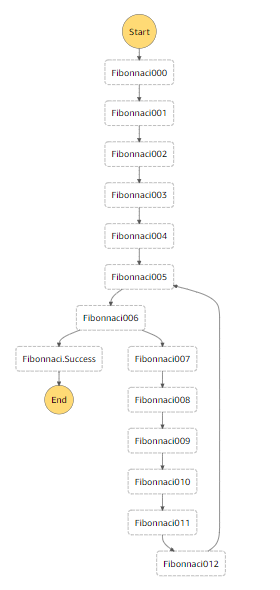
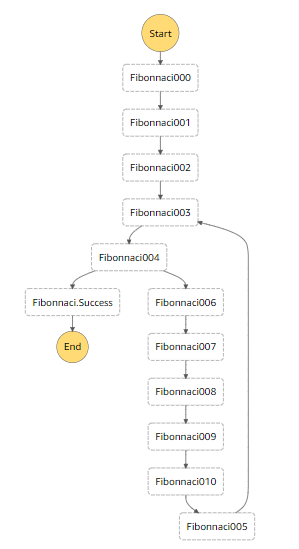
updated docs

diff --git a/README.md b/README.md
@@ -1,12 +1,12 @@
 Stepper
 ====
 
-Stepper is to Step Functions = High level language is to Assembly.
+**Stepper** is to *Step Functions* as **High level language** is to *Assembly*.
  
 Stepper allows you to write AWS Step Functions using modern programming constructs such as `if else` branching, `for` 
 and `while` loops, `try catch` for error handling and natural expressions such as `a = arr.length + 1`. 
 To illustrate, let us create a step function that generates the first 10 Fibonnaci numbers and stores them into an SQS 
-queue. The first two values of the series are hardcoded and the rest of the series is then computed. 
+queue.  
 
 ```Javascript
 
@@ -14,40 +14,26 @@ queue. The first two values of the series are hardcoded and the rest of the seri
 @TimeoutSeconds(120)
 @Version("1.0")
 stepper Fibonnaci {
-    // first two fibonnaci are static
-    task {
-        "Resource": "arn:aws:states:::sqs:sendMessage",
-        "Parameters": {
-            "MessageBody": "0",
-            "QueueUrl": "https://sqs.us-east-1.amazonaws.com/1570xxx/fibo"
-        }
-    }
-    task {
-        "Resource": "arn:aws:states:::sqs:sendMessage",
-        "Parameters": {
-            "MessageBody": "1",
-            "QueueUrl": "https://sqs.us-east-1.amazonaws.com/1570xxx/fibo"
-        }
-    }
-
-    previous = 0;
-    current = 1;
-    count = 2;
-    while (count < 10) {
-        fib = previous + current;
-        previous = current;
-        current = fib;
-        entry = fib + "";
-        // write to queue
-        sqs = task {
+	// first two fibonnaci are static
+	
+	previous = 1;
+	fib = 0;
+	
+	for (c = 1 to 10) {
+		// queue message must be a string
+		body = fib + "";
+		// write to queue
+		sqs = task {
             "Resource": "arn:aws:states:::sqs:sendMessage",
-            "Parameters": {
-                "MessageBody.$": "$.entry",
-                "QueueUrl": "https://sqs.us-east-1.amazonaws.com/1570xxx/fibo"
-            }
+	      	"Parameters": {
+	        	"MessageBody.$": "$.body",
+	        	"QueueUrl": "https://sqs.us-east-1.amazonaws.com/1570xxxx/fibo"
+	      	}
         }
-        count = count + 1;
-    }
+        temp = fib;
+		fib += previous;
+		previous = temp;
+	}
 }
 
 ```
@@ -68,60 +54,43 @@ following state machine.
   "StartAt": "Fibonnaci000",
   "States": {
     "Fibonnaci000": {
-      "Type": "Task",
-      "Resource": "arn:aws:states:::sqs:sendMessage",
-      "Parameters": {
-        "MessageBody": "0",
-        "QueueUrl": "https://sqs.us-east-1.amazonaws.com/1570xxx/fibo"
-      },
-      "ResultPath": "$.Fibonnaci000",
+      "Type": "Pass",
+      "Result": 1,
+      "ResultPath": "$.previous",
       "Next": "Fibonnaci001"
     },
     "Fibonnaci001": {
-      "Type": "Task",
-      "Resource": "arn:aws:states:::sqs:sendMessage",
-      "Parameters": {
-        "MessageBody": "1",
-        "QueueUrl": "https://sqs.us-east-1.amazonaws.com/1570xxx/fibo"
-      },
-      "ResultPath": "$.Fibonnaci001",
+      "Type": "Pass",
+      "Result": 0,
+      "ResultPath": "$.fib",
       "Next": "Fibonnaci002"
     },
     "Fibonnaci002": {
-      "Type": "Pass",
-      "Result": 0,
-      "ResultPath": "$.previous",
+      "Type": "Task",
+      "Parameters": {
+        "cmd__sm": "Fibonnaci002"
+      },
+      "Resource": "arn:aws:lambda:us-east-1:1570xxxx:function:Fibonnaci_stepperLambda",
+      "ResultPath": "$.c",
       "Next": "Fibonnaci003"
     },
     "Fibonnaci003": {
-      "Type": "Pass",
-      "Result": 1,
-      "ResultPath": "$.current",
+      "Type": "Task",
+      "Parameters": {
+        "cmd__sm": "Fibonnaci003",
+        "c.$": "$.c"
+      },
+      "Resource": "arn:aws:lambda:us-east-1:1570xxxx:function:Fibonnaci_stepperLambda",
+      "ResultPath": "$.Fibonnacivar__000",
       "Next": "Fibonnaci004"
     },
     "Fibonnaci004": {
-      "Type": "Pass",
-      "Result": 2,
-      "ResultPath": "$.count",
-      "Next": "Fibonnaci005"
-    },
-    "Fibonnaci005": {
-      "Type": "Task",
-      "Parameters": {
-        "cmd__sm": "Fibonnaci005",
-        "count.$": "$.count"
-      },
-      "Resource": "arn:aws:lambda:us-east-1:1570xxx:function:Fibonnaci_stepperLambda",
-      "ResultPath": "$.Fibonnacivar__000",
-      "Next": "Fibonnaci006"
-    },
-    "Fibonnaci006": {
       "Type": "Choice",
       "Choices": [
         {
           "Variable": "$.Fibonnacivar__000",
           "BooleanEquals": true,
-          "Next": "Fibonnaci007"
+          "Next": "Fibonnaci006"
         },
         {
           "Variable": "$.Fibonnacivar__000",
@@ -130,66 +99,66 @@ following state machine.
         }
       ]
     },
-    "Fibonnaci007": {
+    "Fibonnaci006": {
       "Type": "Task",
       "Parameters": {
-        "cmd__sm": "Fibonnaci007",
-        "current.$": "$.current",
-        "previous.$": "$.previous"
+        "cmd__sm": "Fibonnaci006",
+        "fib.$": "$.fib"
       },
-      "ResultPath": "$.fib",
-      "Resource": "arn:aws:lambda:us-east-1:1570xxx:function:Fibonnaci_stepperLambda",
+      "ResultPath": "$.body",
+      "Resource": "arn:aws:lambda:us-east-1:1570xxxx:function:Fibonnaci_stepperLambda",
+      "Next": "Fibonnaci007"
+    },
+    "Fibonnaci007": {
+      "Type": "Task",
+      "Resource": "arn:aws:states:::sqs:sendMessage",
+      "Parameters": {
+        "MessageBody.$": "$.body",
+        "QueueUrl": "https://sqs.us-east-1.amazonaws.com/1570xxxx/fibo"
+      },
+      "ResultPath": "$.sqs",
       "Next": "Fibonnaci008"
     },
     "Fibonnaci008": {
       "Type": "Task",
       "Parameters": {
         "cmd__sm": "Fibonnaci008",
-        "current.$": "$.current"
+        "fib.$": "$.fib"
       },
-      "ResultPath": "$.previous",
-      "Resource": "arn:aws:lambda:us-east-1:1570xxx:function:Fibonnaci_stepperLambda",
+      "ResultPath": "$.temp",
+      "Resource": "arn:aws:lambda:us-east-1:1570xxxx:function:Fibonnaci_stepperLambda",
       "Next": "Fibonnaci009"
     },
     "Fibonnaci009": {
       "Type": "Task",
       "Parameters": {
         "cmd__sm": "Fibonnaci009",
+        "previous.$": "$.previous",
         "fib.$": "$.fib"
       },
-      "ResultPath": "$.current",
-      "Resource": "arn:aws:lambda:us-east-1:1570xxx:function:Fibonnaci_stepperLambda",
+      "ResultPath": "$.fib",
+      "Resource": "arn:aws:lambda:us-east-1:1570xxxx:function:Fibonnaci_stepperLambda",
       "Next": "Fibonnaci010"
     },
     "Fibonnaci010": {
       "Type": "Task",
-      "Parameters": {
-        "cmd__sm": "Fibonnaci010",
-        "fib.$": "$.fib"
-      },
-      "ResultPath": "$.entry",
-      "Resource": "arn:aws:lambda:us-east-1:1570xxx:function:Fibonnaci_stepperLambda",
-      "Next": "Fibonnaci011"
-    },
-    "Fibonnaci011": {
-      "Type": "Task",
-      "Resource": "arn:aws:states:::sqs:sendMessage",
-      "Parameters": {
-        "MessageBody.$": "$.entry",
-        "QueueUrl": "https://sqs.us-east-1.amazonaws.com/1570xxx/fibo"
-      },
-      "ResultPath": "$.sqs",
-      "Next": "Fibonnaci012"
-    },
-    "Fibonnaci012": {
-      "Type": "Task",
       "Next": "Fibonnaci005",
       "Parameters": {
-        "cmd__sm": "Fibonnaci012",
-        "count.$": "$.count"
+        "cmd__sm": "Fibonnaci010",
+        "temp.$": "$.temp"
       },
-      "ResultPath": "$.count",
-      "Resource": "arn:aws:lambda:us-east-1:1570xxx:function:Fibonnaci_stepperLambda"
+      "ResultPath": "$.previous",
+      "Resource": "arn:aws:lambda:us-east-1:1570xxxx:function:Fibonnaci_stepperLambda"
+    },
+    "Fibonnaci005": {
+      "Type": "Task",
+      "Parameters": {
+        "cmd__sm": "Fibonnaci005",
+        "c.$": "$.c"
+      },
+      "Resource": "arn:aws:lambda:us-east-1:1570xxxx:function:Fibonnaci_stepperLambda",
+      "ResultPath": "$.c",
+      "Next": "Fibonnaci003"
     },
     "Fibonnaci.Success": {
       "Type": "Succeed"
